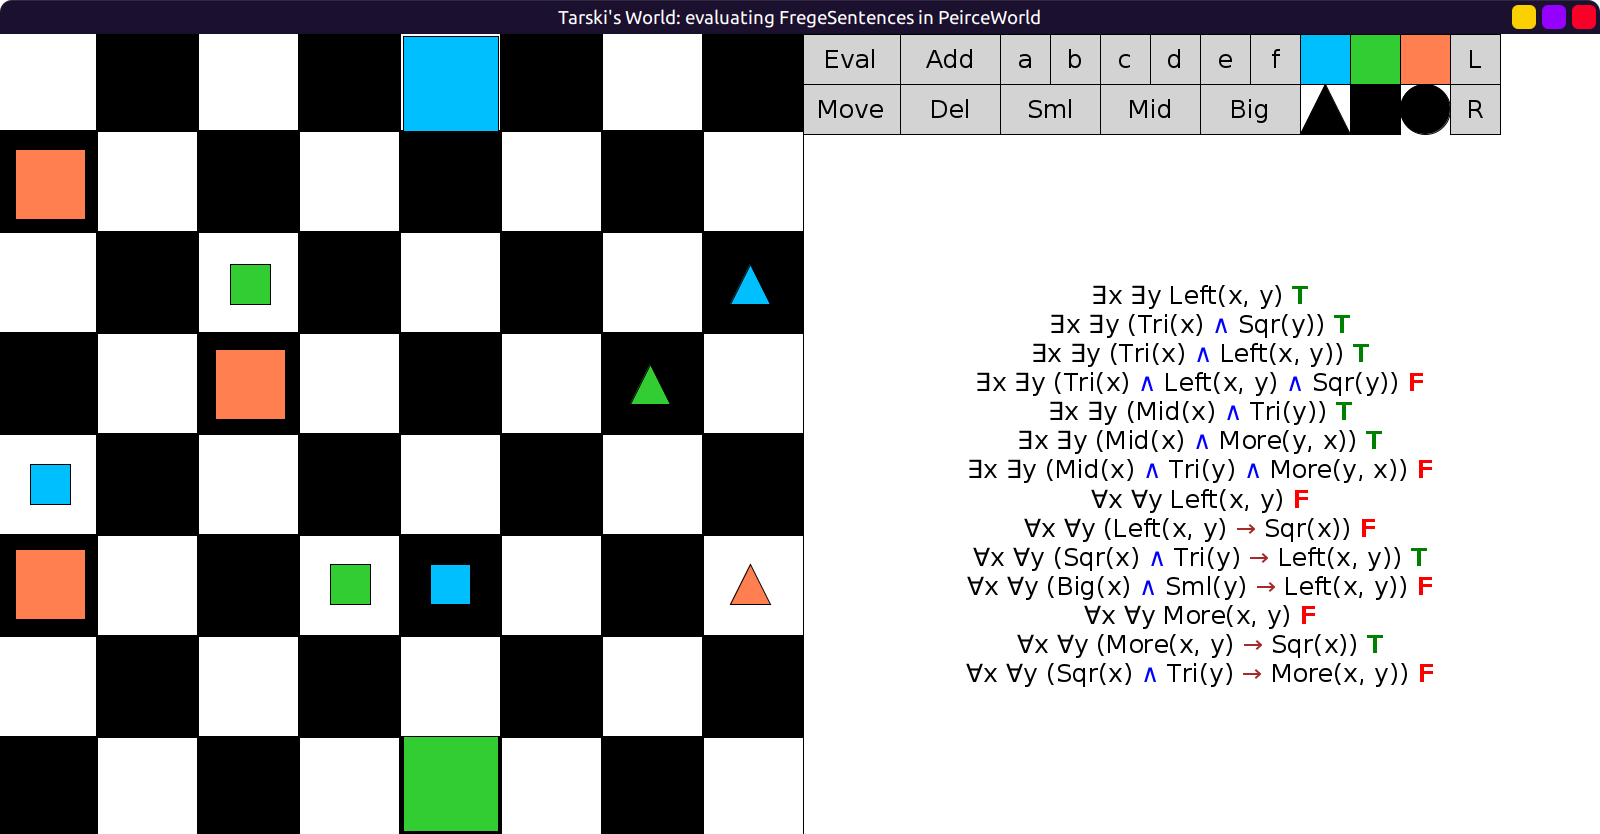
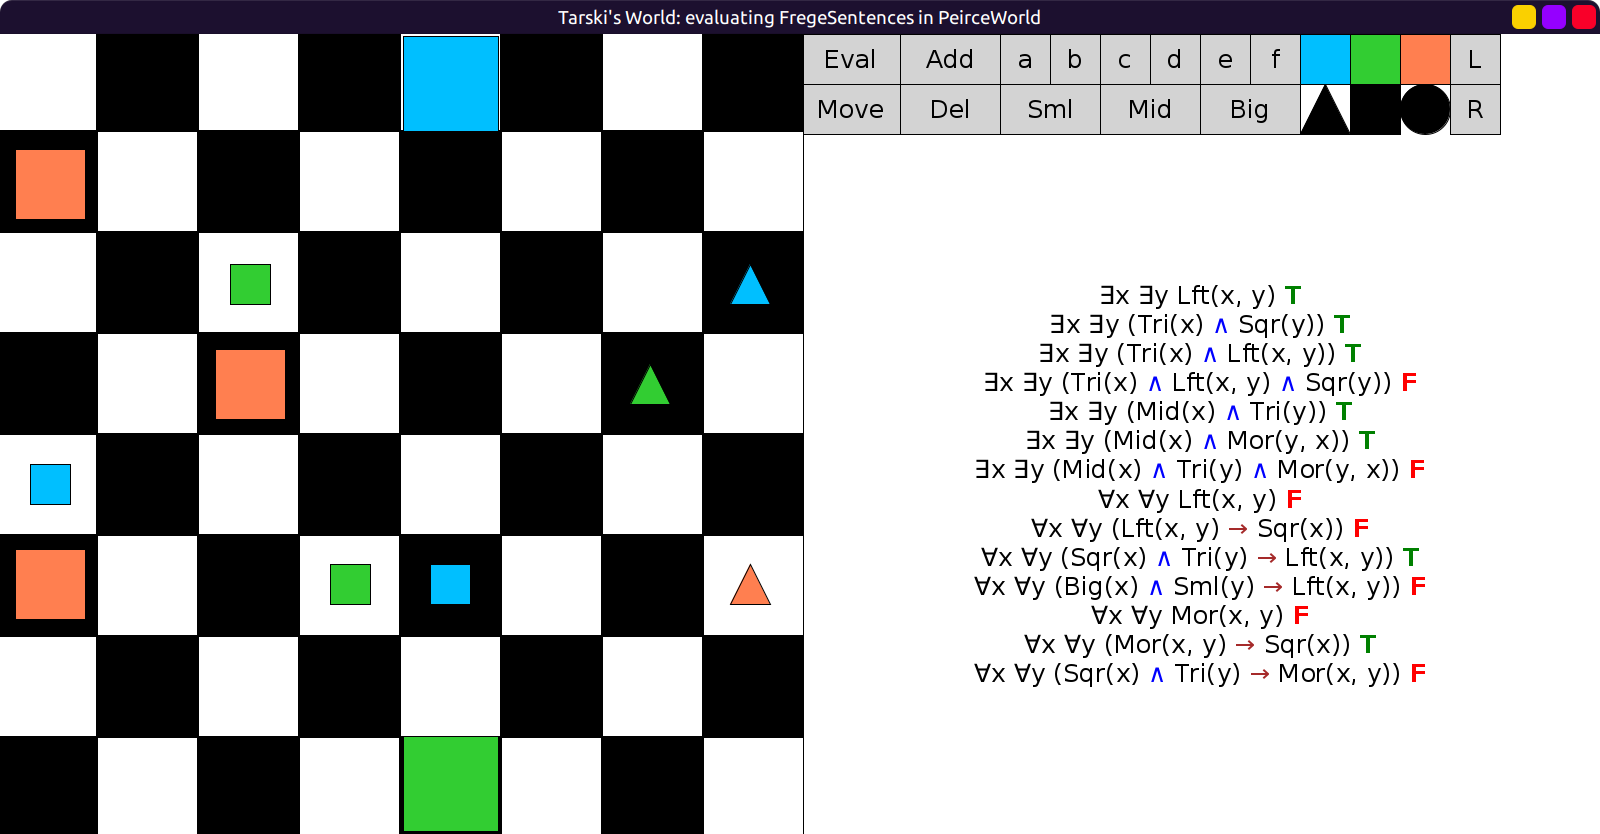
rework ex q19, some typos

Changed region(s): [[0.5938, 0.4988, 0.9062, 0.8417], [0.5938, 0.4053, 0.9062, 0.4676], [0.6875, 0.3429, 0.8125, 0.3741]]

diff --git a/examples/quantifier-logic/36/README.md b/examples/quantifier-logic/36/README.md
@@ -1,7 +1,7 @@
 # 36 - Saying more complicated things
 
-- Open Skolem's World.
-- Create a new sentence file and describe the following features of Skolem's World.
+- Open `SkolemWorld`.
+- Describe the following features of `SkolemWorld` in `sentencesQ36`.
 
 1. Use your first sentence to say that there are only squares and triangles.
 2. Next say that there are exactly three squares.
@@ -13,18 +13,17 @@
 7. Observe that the small triangle is below but to neither side
   of all the other triangles. State this.
 
-- Save your list of sentences as Sentences 3.36.
 - If you have expressed yourself correctly,
-- there is very little you can do to Skolem's World
-- without making at least one of your sentences false.
+  there is very little you can do to `SkolemWorld`
+  without making at least one of your sentences false.
 - Basically, all you can do is "stretch" things out, that is,
-- move things apart while keeping them aligned.
+  move things apart while keeping them aligned.
 - To see this, try making the following changes.
 
-1. Add a new triangle to the world. Find one of your sentences
-  that comes out false. Move the new triangle so that a different
-  sentence comes out false.
-2. Change the size of one of the objects. What sentence now comes out false?
-3. Change the shape of one of the objects. What sentence comes out false?
-4. Slide one of the squares to the left. What sentence comes out false?
-5. Rearrange the three squares. What goes wrong now?
+1. Add a new triangle to the world.
+2. Find one of your sentences that comes out false.
+3. Move the new triangle so that a different sentence comes out false.
+4. Change the size of one of the objects. What sentence now comes out false?
+5. Change the shape of one of the objects. What sentence comes out false?
+6. Slide one of the squares to the left. What sentence comes out false?
+7. Rearrange the three squares. What goes wrong now?

diff --git a/examples/quantifier-logic/31/README.md b/examples/quantifier-logic/31/README.md
@@ -2,32 +2,31 @@
 
 Now, we will try translating some multiple quantifier sentences completely from
 scratch. You should try to use the step-by-step procedure.
-Start a new sentence file and translate the following English sentences.
+Translate the following English sentences.
 
 1. Every triangle is below every circle.
 2. No circle has anything above it.
 3. No triangle is the same size as any square.
 4. Every circle is the same size as some square.
-5. Anything between two circles is a square. [Note: This use of
-  two really can be paraphrased using between a circle and
-  a circle.]
+5. Anything between two circles is a square. [Note: This use of two
+  really can be paraphrased using between a circle and a circle.]
 6. Every square falls between two objects.
 7. Every square with something above it is small.
 8. Every circle with nothing to its right is small.
 9. (?) Every circle with nothing to its right has something to its left.
 10. Any circle to the left of a square is big.
 
-- Open Bolzano's World.
+- Open `BolzanoWorld`.
 - All of the above English sentences are true in this world.
 - Verify that all your translations are true as well.
-- Now open Ron's World.
+- Now open `RonWorld`.
 - The English sentences 4, 5, 8, 9, and 10 are true,
 - but the rest are false.
 - Verify that the same holds of your translations.
-- Open VonNeumann's World.
+- Open `VonNeumannWorld`.
 - Here you will find that the English sentences 1, 3, 5, 7, 9, and 10 are true,
 - the rest false.
 - Again, check to see that your translations have the appropriate truth value.
-- Finally, open Peano's World.
+- Finally, open `PeanoWorld`.
 - Notice that only sentences 8 and 9 are true.
 - Check to see that your translations have the same truth values.

diff --git a/examples/quantifier-logic/37/README.md b/examples/quantifier-logic/37/README.md
@@ -2,7 +2,7 @@
 
 - Open Peirce's World.
 - Look at it in 2-D to remind yourself of the hidden objects.
-- Start a new sentence file where you will translate the following English sentences.
+- Translate the following English sentences.
 - Again, be sure to check each to see that it is indeed a true sentence.
 
 1. Everything is either a square or a triangle.
@@ -10,8 +10,8 @@
 3. There are at least three triangles.
 4. Every small square is above a particular big square.
 5. Every triangle is small.
-6. Every circle is smaller than some triangle. [Note: This is
-  vacuously true in this world.]
+6. Every circle is smaller than some triangle.
+  [Note: This is vacuously true in this world.]
 
 - Now let's change the world so that none of the English sentences are true.
 - (We can do this by changing the big square in front to a circle,
@@ -20,6 +20,5 @@
 - If your answers to 1-5 are correct,
 - all of your translations should be false as well.
 - If not, you have made a mistake in translation.
-- Make further changes, and check to see that the
-- truth values of your translations track those of the English sentences.
-- Submit your sentence file.
+- Make further changes, and check to see that the truth values
+  of your translations track those of the English sentences.

diff --git a/examples/quantifier-logic/19/README.md b/examples/quantifier-logic/19/README.md
@@ -1,6 +1,6 @@
 # 19 - Simple multiple quantifier sentences
 
-- The file `FregeSentences` contains 14 sentences.
+- `FregeSentences` contains 14 sentences.
 - The first seven begin with a pair of existential quantifiers.
 - The second seven with a pair of universal quantifiers.
 - Go through the sentences one by one, evaluating them in `PeirceWorld`.
@@ -13,3 +13,9 @@
 
 Now that you have plenty of experience with quantifiers, next we will present
 examples in which both universal and existential quantifiers get mixed together.
+
+## Historical: who was Frege?
+
+German philosopher, mathematician, logician (1848 - 1925)
+
+<https://en.wikipedia.org/wiki/Gottlob_Frege>

diff --git a/examples/quantifier-logic/46/README.md b/examples/quantifier-logic/46/README.md
@@ -1,7 +1,7 @@
 # 46 - Describing a world
 
 - Let's try our hand describing a world using multiple quantifiers.
-- Open Finsler's World and start a new sentence file.
+- Open Finsler's World.
 
 1. Notice that all the small blocks are below all the big blocks.
   Use your first sentence to say this.
@@ -22,4 +22,3 @@ this fact.
   always have the same truth values as the claims you meant to express.
 - Check them out in König's World, where all of the original claims are false.
 - Are your sentences all false? When you think you've got them right,
-- submit your sentence file.

diff --git a/examples/quantifier-logic/50/README.md b/examples/quantifier-logic/50/README.md
@@ -7,7 +7,7 @@ we only need one of the quantifiers, as demonstrated by the following equivalenc
 ∃xP(x) ⇔ ¬∀x¬P(x)
 ∀xP(x) ⇔ ¬∃x¬P(x)
 
-The file Barwise's Sentences contains sentences involving both quantifiers
+`BarwiseSentences` contains sentences involving both quantifiers
 in the odd numbered positions. In each even numbered position write a sentence
 that is equivalent to the one above, but which does not use the existential
 quantifier. Simplify your answer by eliminating double negations where possible.

diff --git a/examples/propositional-logic/02/README.md b/examples/propositional-logic/02/README.md
@@ -15,7 +15,7 @@
     - type the ASCII equivalents `~` (or `-`), `&`, `->`.
 - Check each after you write it to see that it is a sentence.
 - If you make a mistake, edit it before going on.
-- Save your changes to the file, and run.
+- Save your changes, and run.
 - Notice we are using the same world from Example 01.
 - Before you "Eval", think about their truth values.
 - When you "Eval", if there is a mistake, the console will throw an exception.

diff --git a/examples/quantifier-logic/44/README.md b/examples/quantifier-logic/44/README.md
@@ -1,7 +1,7 @@
 # 44 - Evaluating sentences in a world
 
 - Open Leibniz's World and Zorn's Sentences.
-- The sentences in this file contain both quantifiers and the identity symbol.
+- The sentences contain both quantifiers and the identity symbol.
 - Work through them, assessing their truth and playing the game when necessary.
 - After you're sure you understand why the sentences get the values they do,
 - modify the false ones to make them true.

diff --git a/examples/quantifier-logic/12/README.md b/examples/quantifier-logic/12/README.md
@@ -57,7 +57,7 @@ Now let's check the translations in some worlds.
 - If not, try to fix them.
 - Finally, open `VennWorld`.
 - English sentences 2, 4, 7, and 10-14 are true. What about your translations?
-- When you are satisfied that your translations are correct, save your sentence file.
+- When you are satisfied that your translations are correct, save your sentences.
 
 ## Historical: who was von Neumann?
 

diff --git a/examples/propositional-logic/05/README.md b/examples/propositional-logic/05/README.md
@@ -1,7 +1,7 @@
 # 05 - Building a world
 
 1. Run `run05` which starts with an empty world and `QuineSentences`.
-2. Build a single world where all the sentences in this file are `true`.
+2. Build a single world where all the sentences are true.
 3. As you work through the sentences,
   you will find yourself successively modifying the world.
   Whenever you make a change in the world,

diff --git a/examples/propositional-logic/27/README.md b/examples/propositional-logic/27/README.md
@@ -14,7 +14,7 @@ but in this case it does depend on your perspective.
 If you rotate the world by 90◦, the answer might change.
 
 - Open `AustinSentences` and `WittgensteinWorld`.
-- Evaluate the sentences in this file and tabulate the
+- Evaluate the sentences and tabulate the
   resulting truth values in the table below.
 
 |No |Original|Rotate 90◦|Rotate 180◦|Rotate 270◦|

diff --git a/examples/quantifier-logic/02/README.md b/examples/quantifier-logic/02/README.md
@@ -6,7 +6,7 @@
   - No A's are B's
   - Some A's are B's
   - Some A's are not B's
-- Build a single world where all the sentences in the file are true.
+- Build a single world where all the sentences are true.
 - As you work through the sentences, you will find yourself successively
   modifying the world.
 - Whenever you make a change in the world, you had better go back
